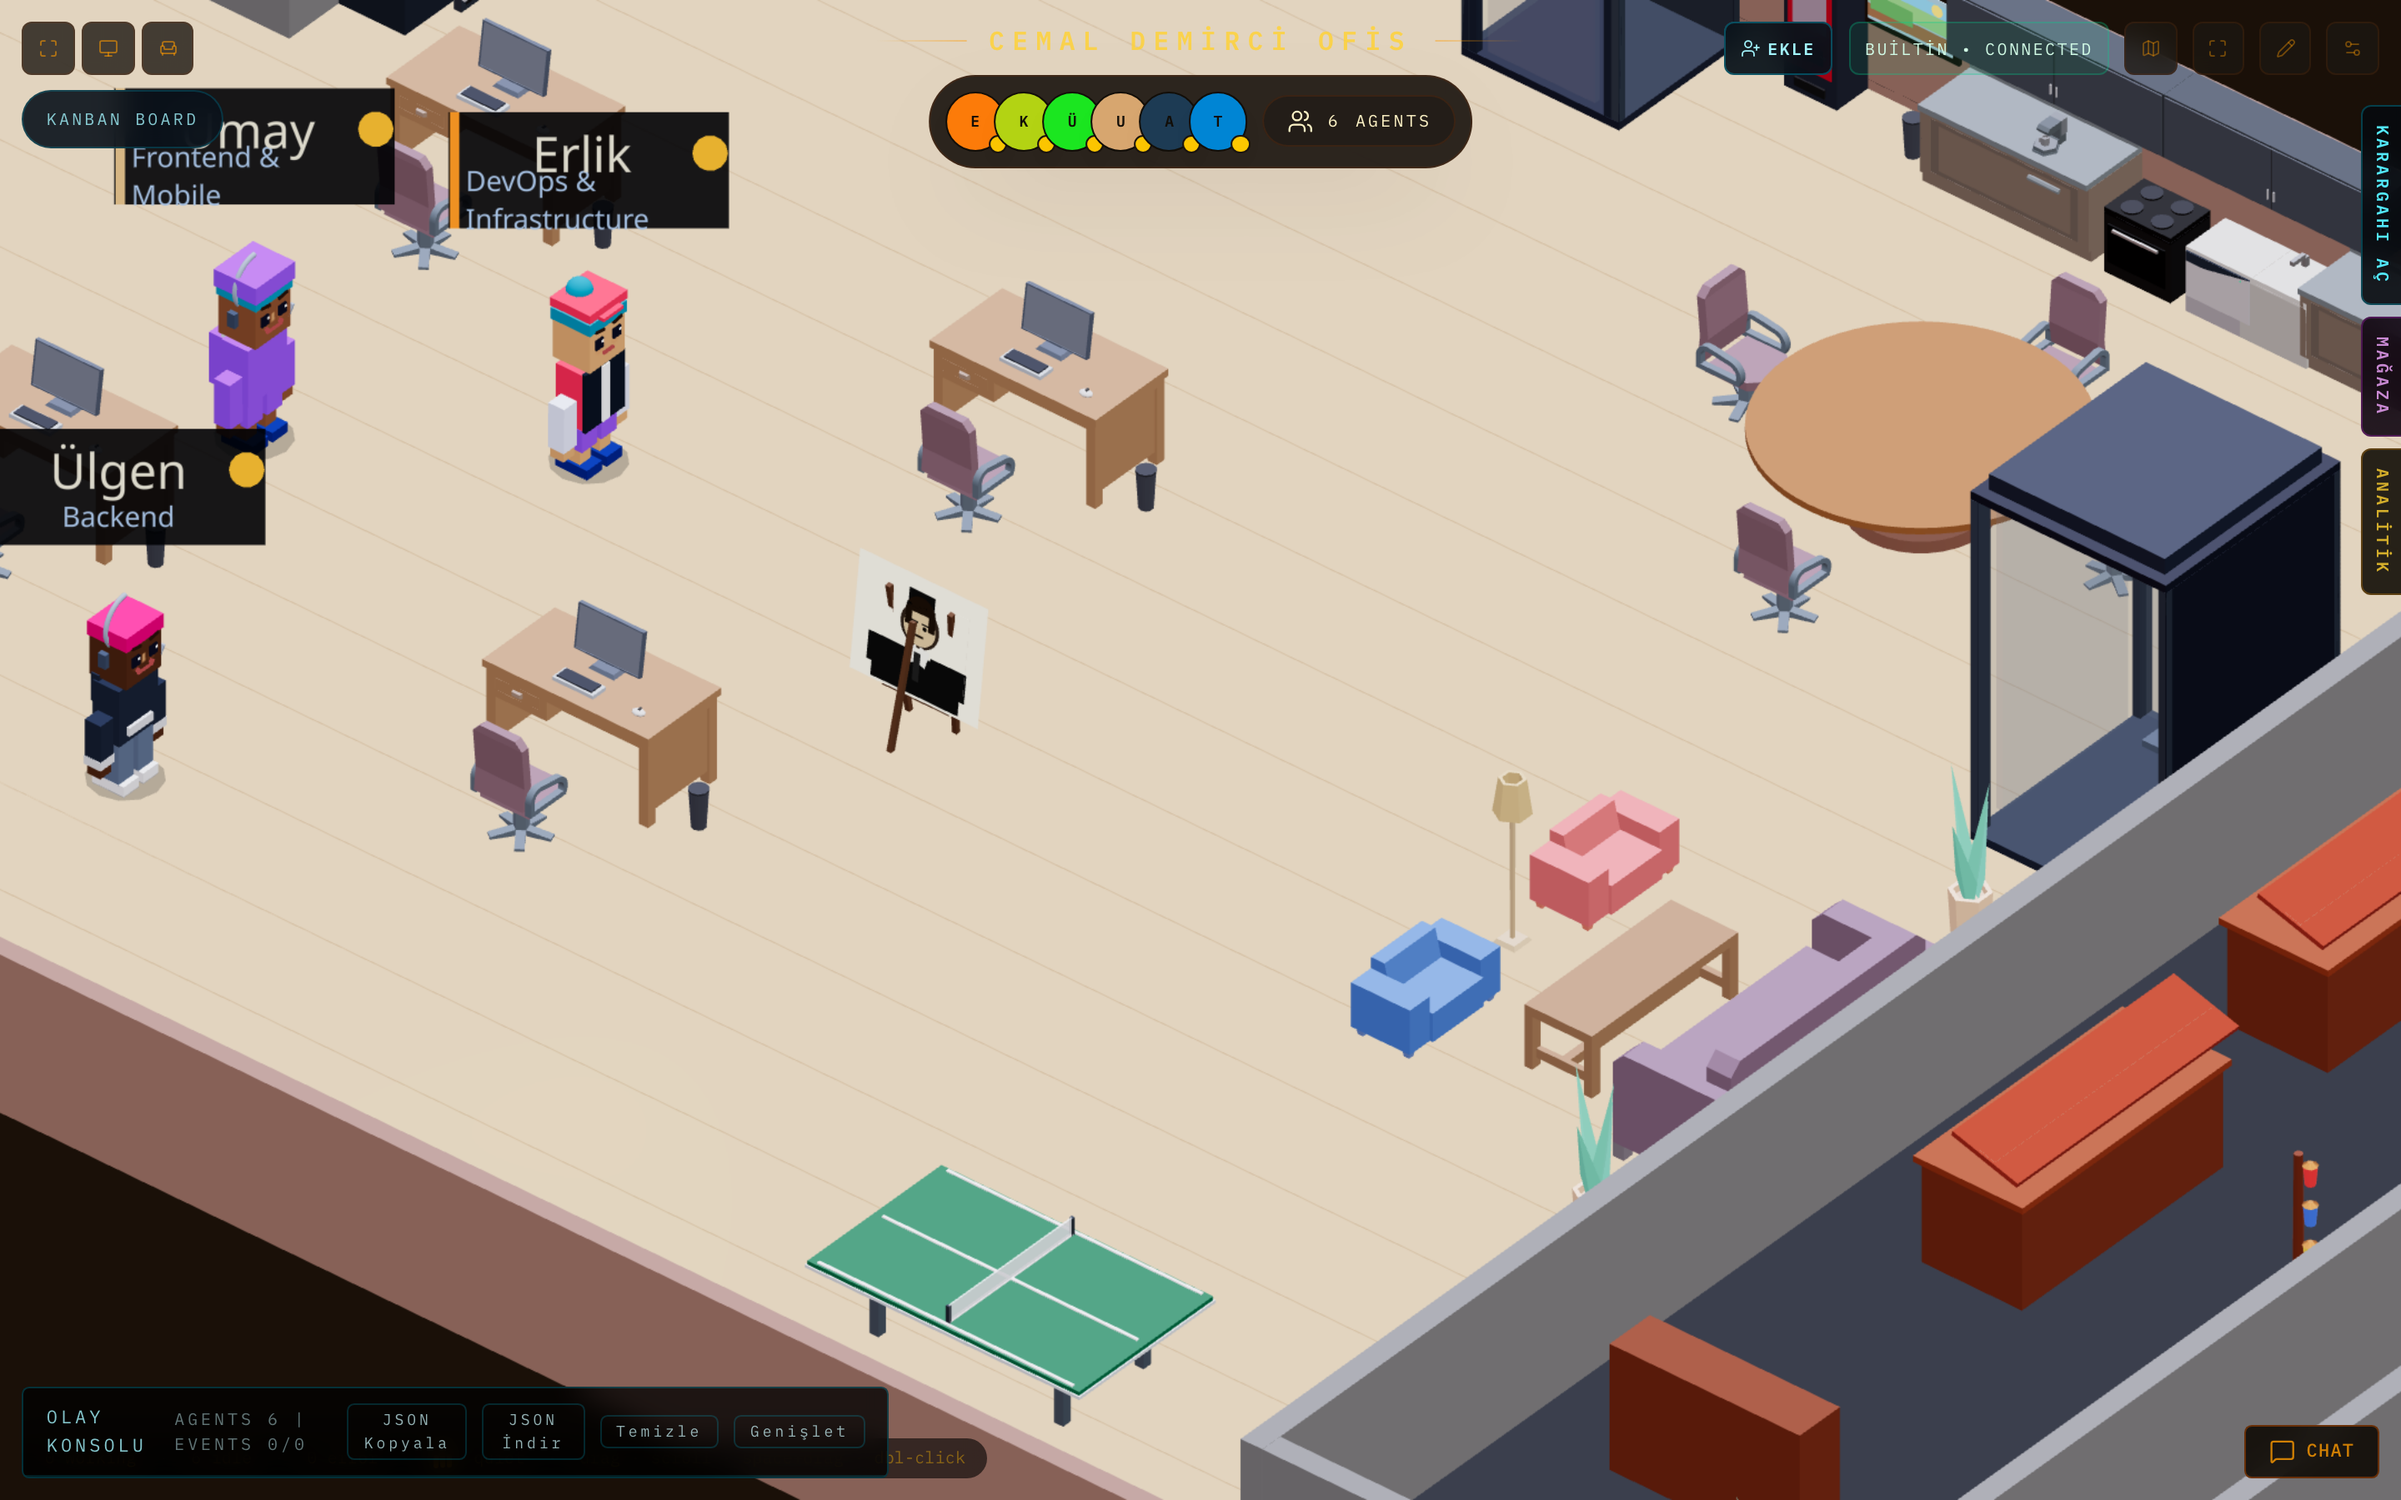
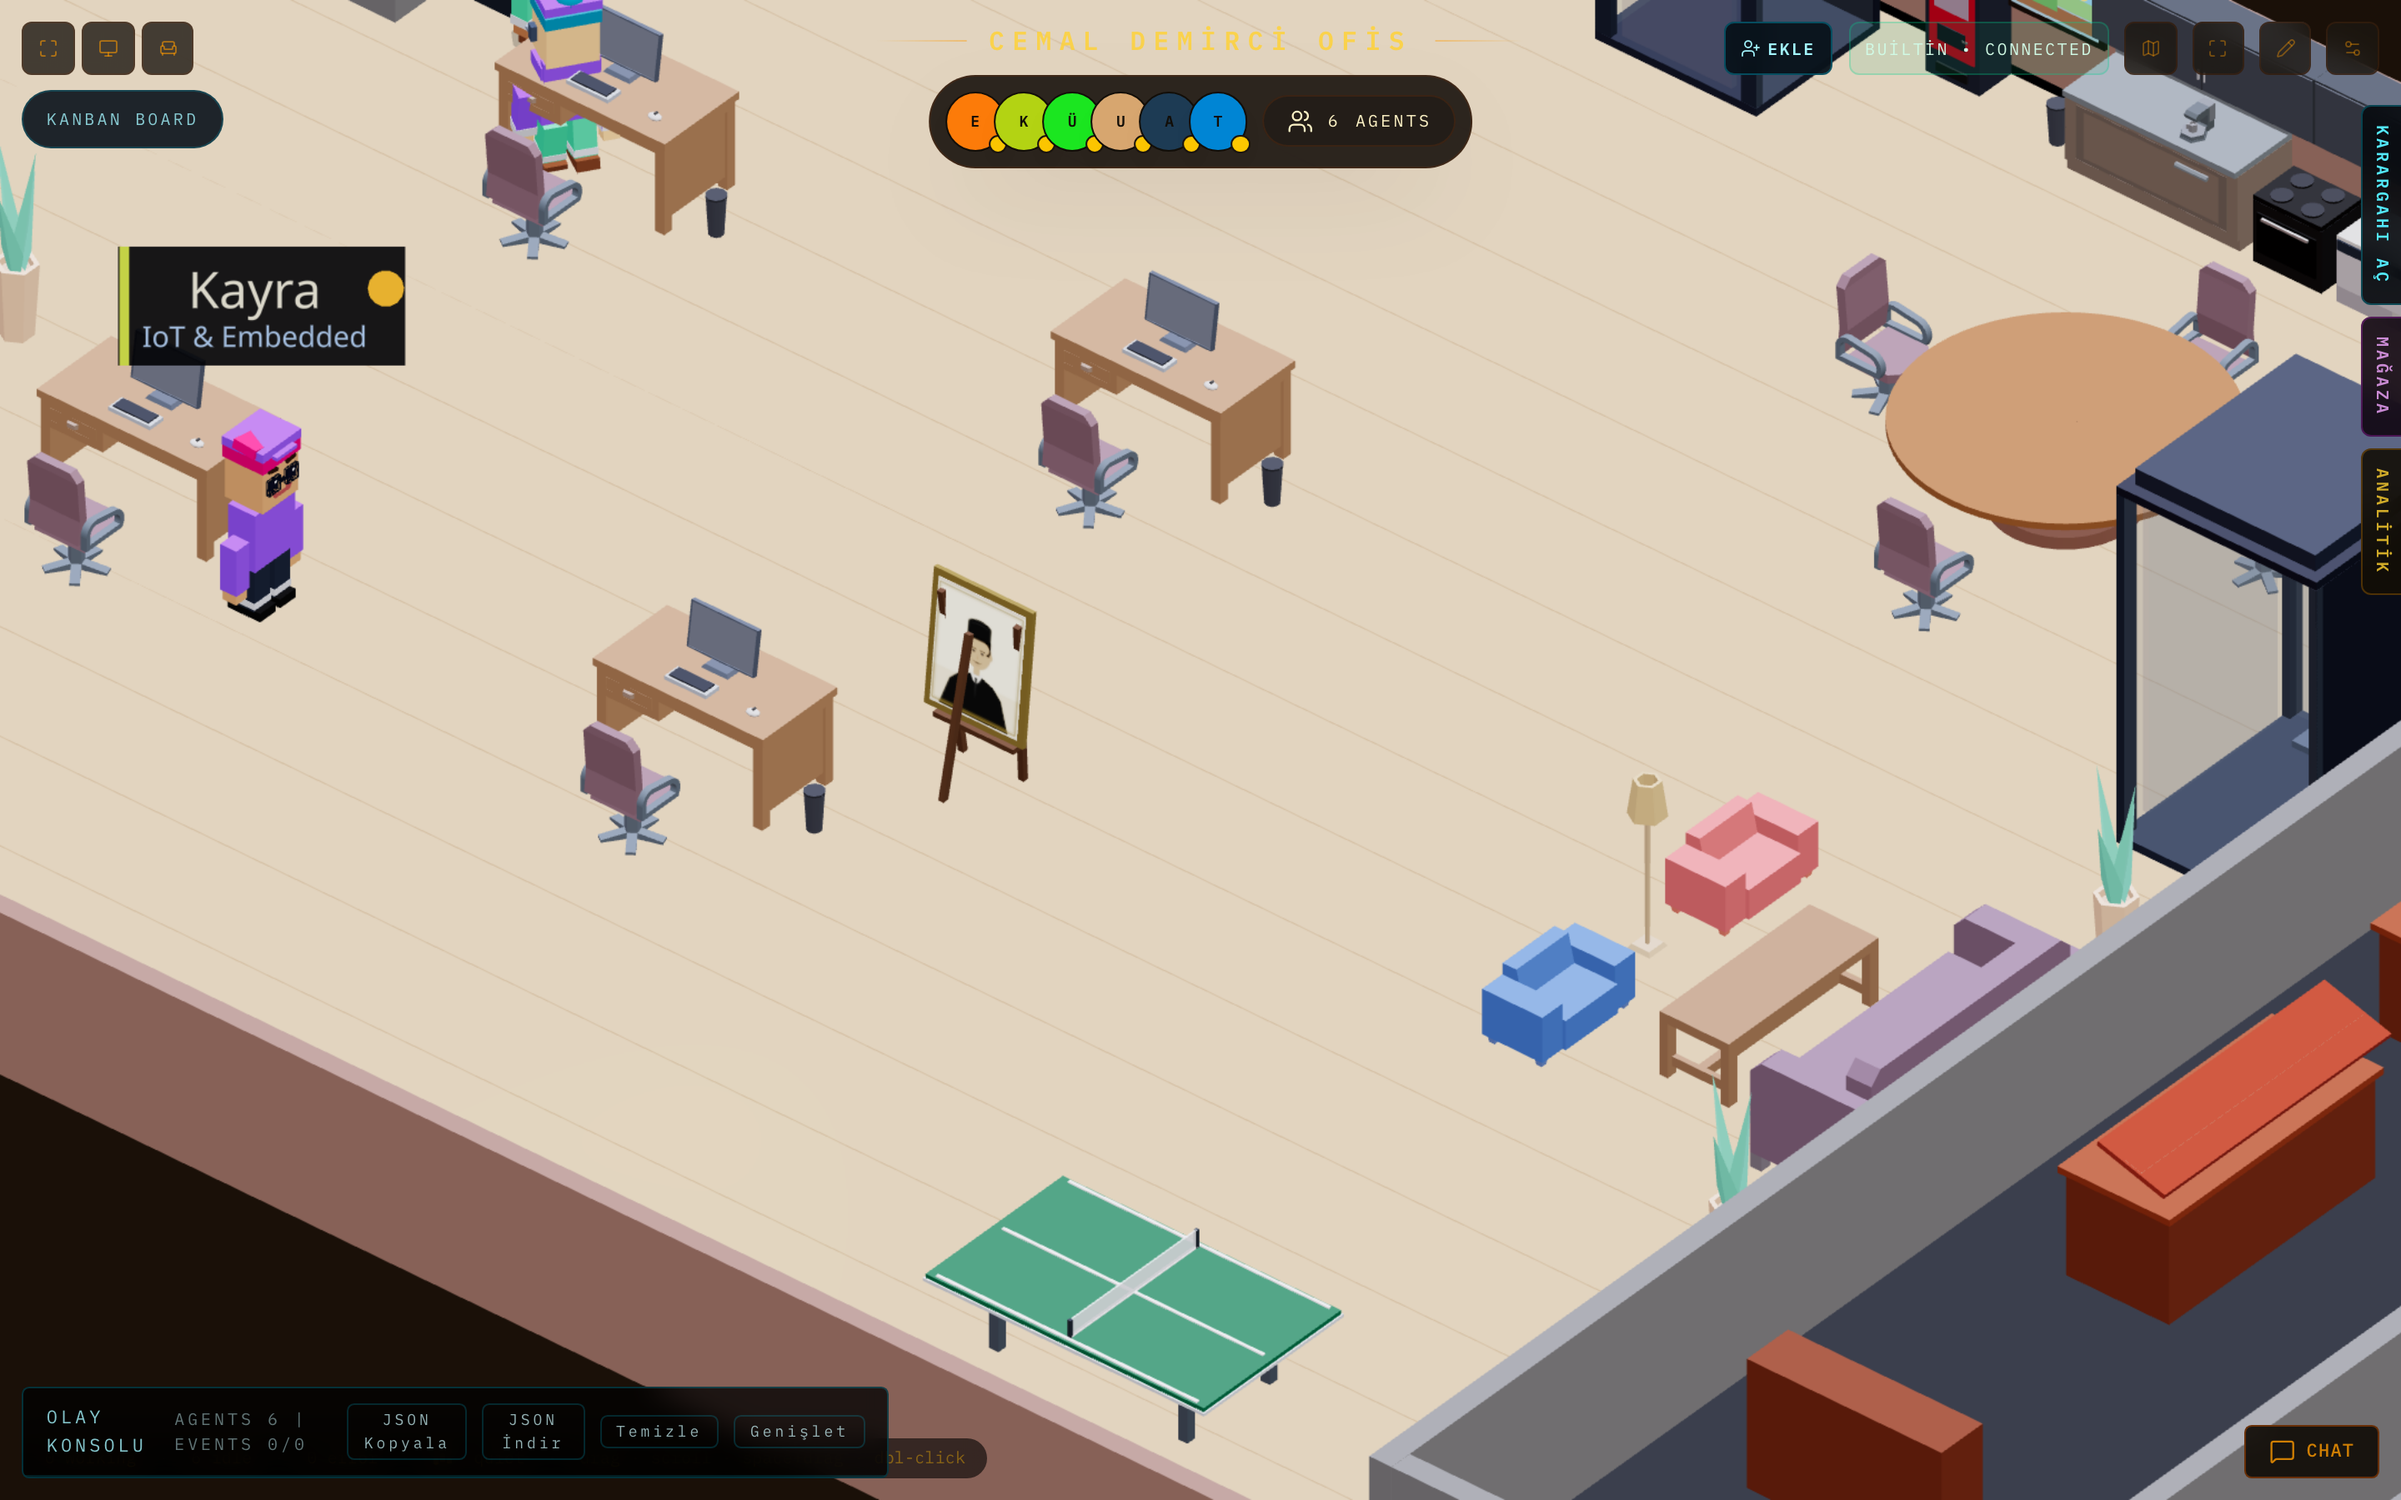
Atatürk portresi PNG texture ile yeniden yapıldı
- Prosedürel geometri yerine SVG → PNG texture kullanıldı
- useTexture (drei) ile 3D sahneye yükleniyor
- Kalpak, bıyık, takım elbise, altın çerçeve net görünüyor
- Şövale büyütüldü ve ofis merkezine yakın konumlandırıldı

diff --git a/src/features/retro-office/scene/environment.tsx b/src/features/retro-office/scene/environment.tsx
@@ -1,6 +1,7 @@
 "use client";
 
-import { memo, type ReactNode } from "react";
+import { memo, Suspense, type ReactNode } from "react";
+import { useTexture } from "@react-three/drei";
 import {
   CANVAS_H,
   CANVAS_W,
@@ -107,114 +108,12 @@ function TurkeyFlagArt() {
 }
 
 function AtaturkPortraitArt() {
-  const s = 1.7; // scale factor for bigger frame
+  const texture = useTexture("/office-assets/ataturk-portrait.png");
   return (
-    <group scale={[s, s, 1]}>
-      {/* Warm cream background */}
-      <mesh position={[0, 0, 0]}>
-        <planeGeometry args={[0.5, 0.42]} />
-        <meshBasicMaterial color="#f5edd6" side={2} />
-      </mesh>
-
-      {/* Suit / shoulders */}
-      <mesh position={[0, -0.13, 0.001]}>
-        <planeGeometry args={[0.34, 0.14]} />
-        <meshBasicMaterial color="#1a1a1a" side={2} />
-      </mesh>
-      <mesh position={[-0.12, -0.1, 0.001]}>
-        <planeGeometry args={[0.14, 0.1]} />
-        <meshBasicMaterial color="#1a1a1a" side={2} />
-      </mesh>
-      <mesh position={[0.12, -0.1, 0.001]}>
-        <planeGeometry args={[0.14, 0.1]} />
-        <meshBasicMaterial color="#1a1a1a" side={2} />
-      </mesh>
-
-      {/* White shirt collar */}
-      <mesh position={[-0.02, -0.06, 0.002]} rotation={[0, 0, 0.25]}>
-        <planeGeometry args={[0.04, 0.06]} />
-        <meshBasicMaterial color="#e8e4dc" side={2} />
-      </mesh>
-      <mesh position={[0.02, -0.06, 0.002]} rotation={[0, 0, -0.25]}>
-        <planeGeometry args={[0.04, 0.06]} />
-        <meshBasicMaterial color="#e8e4dc" side={2} />
-      </mesh>
-
-      {/* Tie */}
-      <mesh position={[0, -0.1, 0.003]}>
-        <planeGeometry args={[0.025, 0.1]} />
-        <meshBasicMaterial color="#2c2c2c" side={2} />
-      </mesh>
-
-      {/* Head silhouette */}
-      <mesh position={[0, 0.04, 0.001]}>
-        <circleGeometry args={[0.075, 32]} />
-        <meshBasicMaterial color="#3a2e26" side={2} />
-      </mesh>
-
-      {/* Face */}
-      <mesh position={[0, 0.035, 0.002]}>
-        <circleGeometry args={[0.062, 32]} />
-        <meshBasicMaterial color="#c4a882" side={2} />
-      </mesh>
-
-      {/* Hair */}
-      <mesh position={[0, 0.085, 0.003]}>
-        <circleGeometry args={[0.058, 32, 0, Math.PI]} />
-        <meshBasicMaterial color="#2a1e14" side={2} />
-      </mesh>
-      <mesh position={[-0.045, 0.06, 0.003]}>
-        <planeGeometry args={[0.025, 0.05]} />
-        <meshBasicMaterial color="#2a1e14" side={2} />
-      </mesh>
-      <mesh position={[0.045, 0.06, 0.003]}>
-        <planeGeometry args={[0.025, 0.05]} />
-        <meshBasicMaterial color="#2a1e14" side={2} />
-      </mesh>
-
-      {/* Eyes */}
-      <mesh position={[-0.02, 0.04, 0.004]}>
-        <circleGeometry args={[0.008, 12]} />
-        <meshBasicMaterial color="#1a1410" side={2} />
-      </mesh>
-      <mesh position={[0.02, 0.04, 0.004]}>
-        <circleGeometry args={[0.008, 12]} />
-        <meshBasicMaterial color="#1a1410" side={2} />
-      </mesh>
-
-      {/* Eyebrows */}
-      <mesh position={[-0.02, 0.054, 0.004]}>
-        <planeGeometry args={[0.026, 0.005]} />
-        <meshBasicMaterial color="#1a1410" side={2} />
-      </mesh>
-      <mesh position={[0.02, 0.054, 0.004]}>
-        <planeGeometry args={[0.026, 0.005]} />
-        <meshBasicMaterial color="#1a1410" side={2} />
-      </mesh>
-
-      {/* Nose */}
-      <mesh position={[0, 0.025, 0.004]}>
-        <planeGeometry args={[0.006, 0.022]} />
-        <meshBasicMaterial color="#b89870" side={2} />
-      </mesh>
-
-      {/* Mustache */}
-      <mesh position={[0, 0.008, 0.004]}>
-        <planeGeometry args={[0.035, 0.008]} />
-        <meshBasicMaterial color="#2a1e14" side={2} />
-      </mesh>
-
-      {/* Kalpak (hat) */}
-      <mesh position={[0, 0.13, 0.002]}>
-        <boxGeometry args={[0.1, 0.06, 0.001]} />
-        <meshBasicMaterial color="#1a1a1a" side={2} />
-      </mesh>
-      {/* Kalpak brim */}
-      <mesh position={[0, 0.105, 0.003]}>
-        <planeGeometry args={[0.11, 0.012]} />
-        <meshBasicMaterial color="#0d0d0d" side={2} />
-      </mesh>
-    </group>
+    <mesh>
+      <planeGeometry args={[0.56, 0.7]} />
+      <meshBasicMaterial map={texture} side={2} />
+    </mesh>
   );
 }
 
@@ -1152,41 +1051,42 @@ export const WallPictures = memo(function WallPictures({
       />
 
       {/* Ataturk Portrait – freestanding easel near center of office */}
-      <group position={[localCenterX - 2, 0, localCenterZ + 1]}>
+      <Suspense fallback={null}>
+      <group position={[localCenterX - 2, 0, localCenterZ + 1.5]}>
         {/* Easel legs */}
-        <mesh position={[-0.18, 0.4, -0.08]} rotation={[0.12, 0, 0.06]}>
-          <boxGeometry args={[0.03, 0.85, 0.03]} />
+        <mesh position={[-0.22, 0.5, -0.1]} rotation={[0.1, 0, 0.05]}>
+          <boxGeometry args={[0.035, 1.05, 0.035]} />
           <meshStandardMaterial color="#5c3a1e" roughness={0.8} />
         </mesh>
-        <mesh position={[0.18, 0.4, -0.08]} rotation={[0.12, 0, -0.06]}>
-          <boxGeometry args={[0.03, 0.85, 0.03]} />
+        <mesh position={[0.22, 0.5, -0.1]} rotation={[0.1, 0, -0.05]}>
+          <boxGeometry args={[0.035, 1.05, 0.035]} />
           <meshStandardMaterial color="#5c3a1e" roughness={0.8} />
         </mesh>
-        <mesh position={[0, 0.35, 0.12]} rotation={[-0.25, 0, 0]}>
-          <boxGeometry args={[0.03, 0.75, 0.03]} />
+        <mesh position={[0, 0.45, 0.14]} rotation={[-0.22, 0, 0]}>
+          <boxGeometry args={[0.035, 0.95, 0.035]} />
           <meshStandardMaterial color="#5c3a1e" roughness={0.8} />
         </mesh>
         {/* Easel shelf */}
-        <mesh position={[0, 0.22, -0.02]}>
-          <boxGeometry args={[0.44, 0.025, 0.06]} />
+        <mesh position={[0, 0.28, -0.03]}>
+          <boxGeometry args={[0.52, 0.03, 0.07]} />
           <meshStandardMaterial color="#5c3a1e" roughness={0.8} />
         </mesh>
         {/* Portrait on easel — tilted slightly back */}
-        <group position={[0, 0.58, -0.04]} rotation={[-0.12, 0, 0]}>
+        <group position={[0, 0.72, -0.05]} rotation={[-0.1, 0, 0]}>
           <FramedPicture
             position={[0, 0, 0]}
             rotY={0}
-            w={0.7}
-            h={0.56}
+            w={0.64}
+            h={0.8}
             frameColor="#8B7531"
             bgColor="#f5edd6"
             art={<AtaturkPortraitArt />}
           />
         </group>
       </group>
+      </Suspense>
       <spotLight
         position={[localCenterX - 2, 1.6, localCenterZ + 1.5]}
-        target-position={[localCenterX - 2, 0.6, localCenterZ + 1]}
         intensity={1.5}
         angle={0.4}
         penumbra={0.5}
